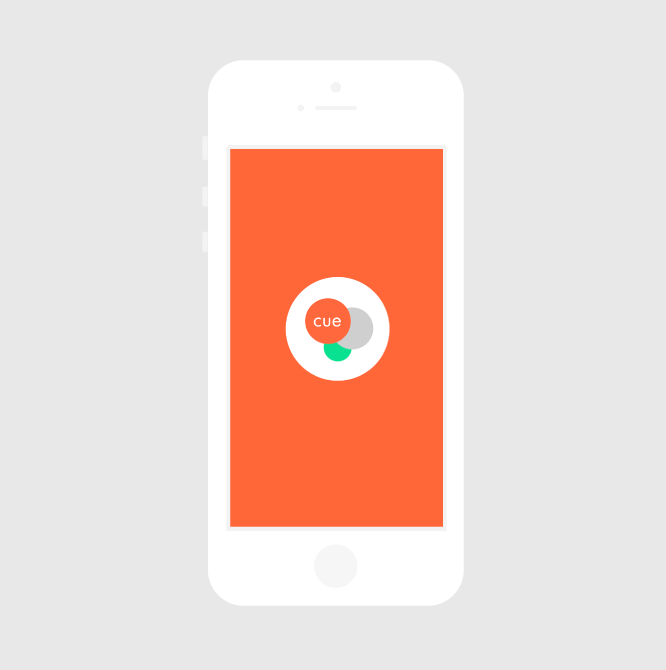
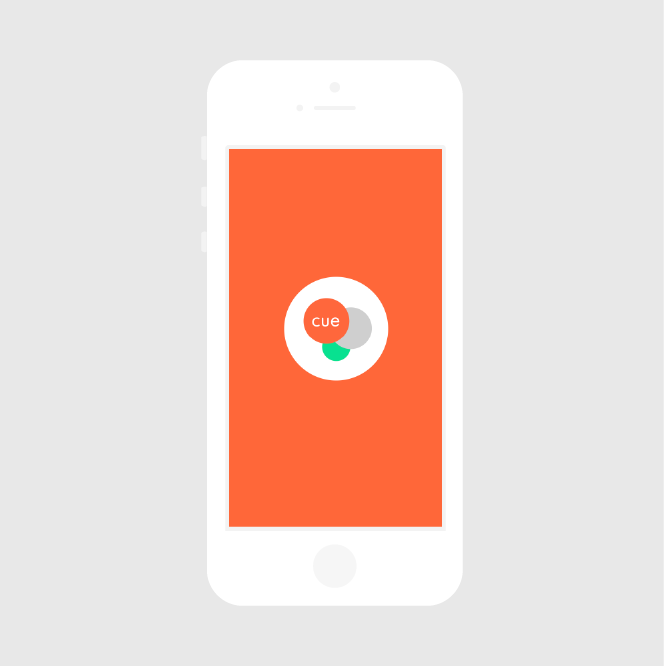
Updated content on work pages and fixed sizing issue for Cue App thumbnail

diff --git a/_site/work/index.html b/_site/work/index.html
@@ -44,26 +44,12 @@
                 
                     
                         <li class="one-third col work-item">
-                            <a href="/work/Dieter-Book.html">
-                                <img src="../images/dr-book-thumbnail.png" class="work-item-img" alt="Book cover">
+                            <a href="/work/Cue-App.html">
+                                <img src="../images/cue-app-thumbnail.png" class="work-item-img" alt="Cue opening screen">
                                 <div class="work-item-desc">
                                     <div class="work-item-desc-content">
-                                        <span>Dieter Rams Book</span>
-                                        <span>Visuals</span>
-                                    </div>
-                                </div>
-                            </a>
-                        </li>
-                    
-                
-                    
-                        <li class="one-third col work-item">
-                            <a href="/work/Cue-Web.html">
-                                <img src="../images/cue-web-thumb.png" class="work-item-img" alt="Cue splashpage">
-                                <div class="work-item-desc">
-                                    <div class="work-item-desc-content">
-                                        <span>Cue Splashpage</span>
-                                        <span>Visuals, Dev</span>
+                                        <span>Cue Mobile App</span>
+                                        <span>Visuals, UX, Motion</span>
                                     </div>
                                 </div>
                             </a>
@@ -100,11 +86,25 @@
                 
                     
                         <li class="one-third col work-item">
-                            <a href="/work/Crafty-Namer.html">
-                                <img src="../images/crafty-thumbnail.png" class="work-item-img" alt="Crafty Namer homepage">
+                            <a href="/work/Dieter-Book.html">
+                                <img src="../images/dr-book-thumbnail.png" class="work-item-img" alt="Book cover">
                                 <div class="work-item-desc">
                                     <div class="work-item-desc-content">
-                                        <span>The Crafty Namer</span>
+                                        <span>Dieter Rams Book</span>
+                                        <span>Visuals</span>
+                                    </div>
+                                </div>
+                            </a>
+                        </li>
+                    
+                
+                    
+                        <li class="one-third col work-item">
+                            <a href="/work/Cue-Web.html">
+                                <img src="../images/cue-web-thumb.png" class="work-item-img" alt="Cue splashpage">
+                                <div class="work-item-desc">
+                                    <div class="work-item-desc-content">
+                                        <span>Cue Splashpage</span>
                                         <span>Visuals, Dev</span>
                                     </div>
                                 </div>
@@ -114,12 +114,12 @@
                 
                     
                         <li class="one-third col work-item">
-                            <a href="/work/Cue-App.html">
-                                <img src="../images/cue-app-thumbnail.png" class="work-item-img" alt="Cue opening screen">
+                            <a href="/work/Crafty-Namer.html">
+                                <img src="../images/crafty-thumbnail.png" class="work-item-img" alt="Crafty Namer homepage">
                                 <div class="work-item-desc">
                                     <div class="work-item-desc-content">
-                                        <span>Cue Mobile App</span>
-                                        <span>Visuals, UX, Motion</span>
+                                        <span>The Crafty Namer</span>
+                                        <span>Visuals, Dev</span>
                                     </div>
                                 </div>
                             </a>

diff --git a/_site/work/Cue-App.html b/_site/work/Cue-App.html
@@ -51,7 +51,7 @@
             <div class="work-post-intro">
                 <div class="work-post-intro-desc">
                     <h2 class="header-main">Cue Mobile App</h2>
-                    <p>Whether from being in a new place or just craving more social interaction, there are times when we all feel like meeting new people. That’s why I cofounded Cue, a social app that uses Bluetooth Low Energy to introduce you to people within 150ft of your location that share your interests.<p>Although Cue never ultimately launched, we garnered some <a href="http://digiday.com/brands/five-recent-digital-student-projects-know/" target="_blank">coverage</a> and took second place in CU's Mobile New Venture Challenge.</p>
+                    <p>A few friends and I founded Cue while at BDW. It's a social app that introduces you to people in your immediate vicinity based on matching customizable tags through BLE. The design is deliberately open-ended to allow the app to be used for many purposes - most obviously in a social sense.<p>Although Cue never ultimately launched, we built and tested awesome prototypes and garnered <a href="http://digiday.com/brands/five-recent-digital-student-projects-know/" target="_blank">coverage</a> along the way.</p>
                 </div>
                 <div class="intro-arrow"></div>
             </div>

diff --git a/_site/work/SPG-App.html b/_site/work/SPG-App.html
@@ -51,7 +51,7 @@
             <div class="work-post-intro">
                 <div class="work-post-intro-desc">
                     <h2 class="header-main">SPG Mobile App</h2>
-                    <p>This app concept was conceived during a design sprint with Starwood Preferred Guests. <p>User research revealed that SPG members are passionate about their travel points, but aren't sure of their monetary value. At the same time, members wanted an app that would help them explore new ways to spend their points rather than just a booking utility.<p>Based on this knowledge, I designed an app that would allow them to set and track transparent point goals in a gamified way.</p>
+                    <p>This app concept came out of a design sprint for Starwood Preferred Guests. <p>User research showed that SPG members were passionate about their travel points, but didn't understand their monetary value. At the same time, members wanted an app that would help them explore new ways to spend their points rather than just another booking utility.<p>To solve these problems, I designed an app that would allow them to set and track transparent point goals with a touch of gamification.</p>
                 </div>
                 <div class="intro-arrow"></div>
             </div>

diff --git a/_site/work/Skoop-Website.html b/_site/work/Skoop-Website.html
@@ -51,7 +51,7 @@
             <div class="work-post-intro">
                 <div class="work-post-intro-desc">
                     <h2 class="header-main">Skoop Website</h2>
-                    <p>While working with the <a href="http://humandesign.agency/">Human Design</a> team we created a new website and seller portal for a health shake called Skoop. The Boulder-based company, founded by Alex Bogusky, makes a shake mix sold by individual resellers around the nation.<p>After working with the design team on the site, I then joined the front-end development team to build it.</p>
+                    <p>While working with the <a href="http://humandesign.agency/">Human Design</a> team we created a new website and seller portal for a health shake called Skoop. The Boulder-based company, founded by Alex Bogusky, makes a shake mix sold by individual resellers around the nation.<p>After working with the design team on the site, I then joined the development team to build it.</p>
                 </div>
                 <div class="intro-arrow"></div>
             </div>

diff --git a/_site/work/Dieter-Book.html b/_site/work/Dieter-Book.html
@@ -51,7 +51,7 @@
             <div class="work-post-intro">
                 <div class="work-post-intro-desc">
                     <h2 class="header-main">Dieter Rams Book</h2>
-                    <p>I designed this simple book covering the infamous designer's "10 Principles For Good Design" while in graduate school.<p>I used a simple grid system based on the dimensions of the Braun T3 Pocket Radio - the product known for influencing the design of Apple’s iPod. The products showcased in the book span Dieter’s work for both Braun and Vitsoe.</p>
+                    <p>I designed this simple book featuring the infamous designer's "10 Principles For Good Design" while at BDW.<p>I used a simple grid system based on the dimensions of the Braun T3 Pocket Radio - the product known for influencing the design of Apple’s iPod. The products showcased in the book span Dieter’s work for both Braun and Vitsoe.</p>
                 </div>
                 <div class="intro-arrow"></div>
             </div>

diff --git a/_site/work/Crafty-Namer.html b/_site/work/Crafty-Namer.html
@@ -51,7 +51,7 @@
             <div class="work-post-intro">
                 <div class="work-post-intro-desc">
                     <h2 class="header-main">The Crafty Namer</h2>
-                    <p>This site was designed and built in two days in response to a random challenge during graduate school. The challenge? Page views. <p>My team's solution for maximizing page views manifested itself as a craft beer name generator that we aggressively marketed to local and national brewery social media outlets to modest success.</p>
+                    <p>This site was designed and built in a day in response to a random challenge at BDW. The challenge? Page views.<p>My team's solution for maximizing page views took the shape of a craft beer name generator that we aggressively marketed to local and national brewery social media outlets. It worked.</p>
                 </div>
                 <div class="intro-arrow"></div>
             </div>

diff --git a/_site/work/Cue-Web.html b/_site/work/Cue-Web.html
@@ -51,7 +51,7 @@
             <div class="work-post-intro">
                 <div class="work-post-intro-desc">
                     <h2 class="header-main">Cue Splashpage</h2>
-                    <p>In addition to designing the Cue mobile app, I designed the app's splashpage as well. The goal of the site was simply to collect email addresses from visitors interested in the app.<p>I wrote all code for this project.</p>
+                    <p>In addition to designing the Cue mobile app, I designed the app's splashpage as well. The goal of the site was to collect email addresses from visitors interested in receiving updates on the app launch.<p>I built the site with good ol' fashion HTML, CSS and jQuery.</p>
                 </div>
                 <div class="intro-arrow"></div>
             </div>

diff --git a/_site/css/style.css b/_site/css/style.css
@@ -761,17 +761,16 @@ li.menu-item-loaded {
     transform: translateY(0px); } }
 .intro-arrow {
   position: absolute;
-  margin: 0 auto 0 -0.40625em;
+  margin: 0 auto 0 -0.3125em;
   bottom: 3.125em;
   left: 50%;
   width: 0;
   height: 0;
   border-style: solid;
-  border-width: 13px 9px 0 9px;
+  border-width: 10px 7px 0 7px;
   border-color: #E8E8E8 transparent transparent transparent;
   transition: opacity .3s ease;
-  animation: arrowFloat 2s infinite;
-  transform: scale(2); }
+  animation: arrowFloat 2s infinite; }
 
 .intro-arrow-hidden {
   opacity: 0; }

diff --git a/_sass/components/_intro-arrow.scss b/_sass/components/_intro-arrow.scss
@@ -6,17 +6,19 @@
 
 .intro-arrow {
 	position: absolute;
-	margin: 0 auto 0 -0.40625em;
+	margin: 0 auto 0 -0.3125em;
 	bottom: 3.125em;
 	left: 50%;
 	width: 0;
 	height: 0;
 	border-style: solid;
-	border-width: 13px 9px 0 9px;
+	border-width: 10px 7px 0 7px;
 	border-color: $canvasGrey transparent transparent transparent;
 	transition: opacity .3s ease;
 	animation: arrowFloat 2s infinite;
-    transform: scale(2);
+
+    // margin: 0 auto 0 -0.40625em;
+    // border-width: 13px 9px 0 9px;
 }
 
 .intro-arrow-hidden {

diff --git a/index.html b/index.html
@@ -17,7 +17,7 @@ category: Home
 			<div class="intro">
 				<img src="images/pencil.svg" alt="pencil">
 				<h1>Hi, I'm Adam.</h1>
-				<p> But a lot of people call me Noff. I’m a Product Designer and prototyper at Uber in San Francisco.</p>
+				<p> But a lot of people call me Noff. I’m a product designer and prototyper at Uber in San Francisco.</p>
 				<a class="button-intro" href="/work"><span>View Work</span></a>
 			</div>
 		</div>

diff --git a/_site/index.html b/_site/index.html
@@ -40,7 +40,7 @@
 			<div class="intro">
 				<img src="images/pencil.svg" alt="pencil">
 				<h1>Hi, I'm Adam.</h1>
-				<p> But a lot of people call me Noff. I’m a Product Designer and prototyper at Uber in San Francisco.</p>
+				<p> But a lot of people call me Noff. I’m a product designer and prototyper at Uber in San Francisco.</p>
 				<a class="button-intro" href="/work"><span>View Work</span></a>
 			</div>
 		</div>

diff --git a/work/_posts/2015-11-04-SPG-App.md b/work/_posts/2015-11-04-SPG-App.md
@@ -7,7 +7,7 @@ link: https://dribbble.com/shots/1622941-Set-Goal-Slider-Animation?list=users&of
 materials: ../../../../../docs/spg-documentation.pdf
 thumbnail: ../images/spg-thumbnail.png
 thumbnailDesc: SPG app screenshot
-description: This app concept was conceived during a design sprint with Starwood Preferred Guests. <p>User research revealed that SPG members are passionate about their travel points, but aren't sure of their monetary value. At the same time, members wanted an app that would help them explore new ways to spend their points rather than just a booking utility.<p>Based on this knowledge, I designed an app that would allow them to set and track transparent point goals in a gamified way.
+description: This app concept came out of a design sprint for Starwood Preferred Guests. <p>User research showed that SPG members were passionate about their travel points, but didn't understand their monetary value. At the same time, members wanted an app that would help them explore new ways to spend their points rather than just another booking utility.<p>To solve these problems, I designed an app that would allow them to set and track transparent point goals with a touch of gamification.
 ---
 <div><img class="project-image" alt="Skoop homepage" src="/images/spg-map.png"></div>
 
